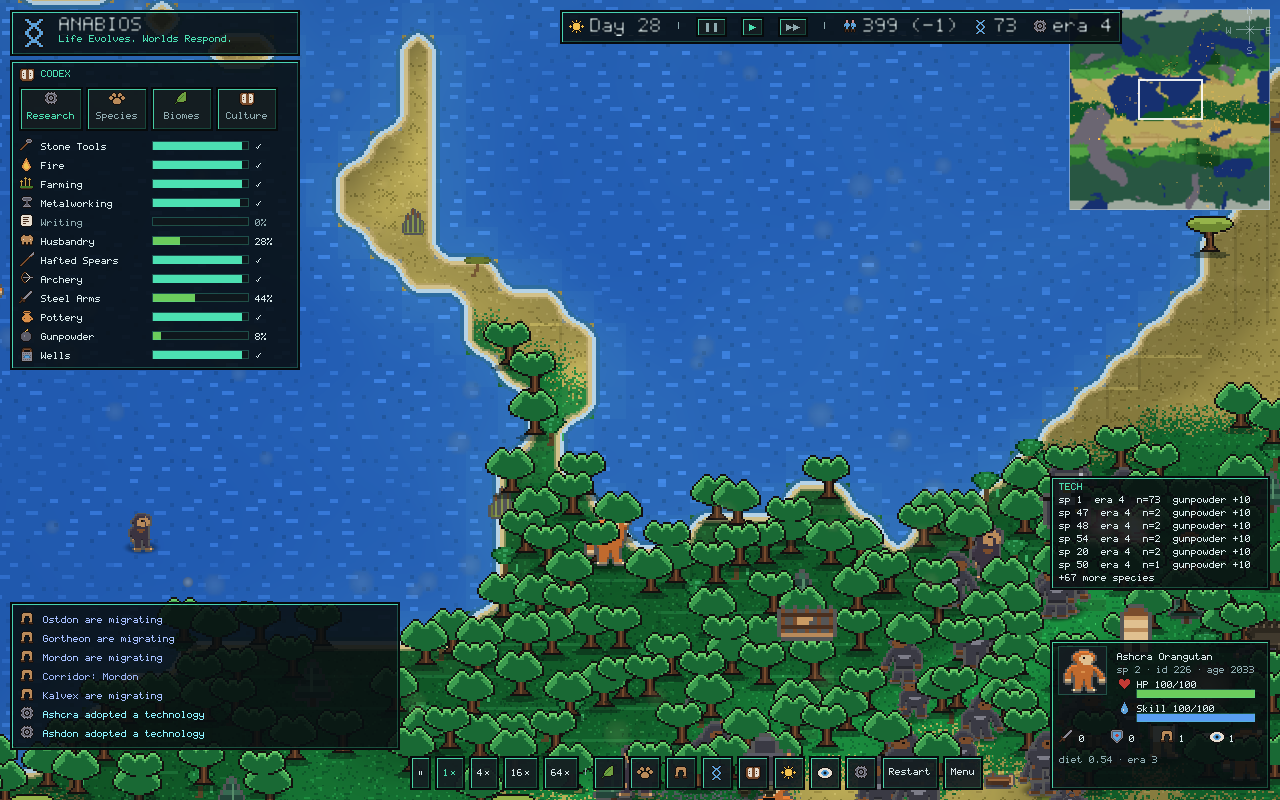
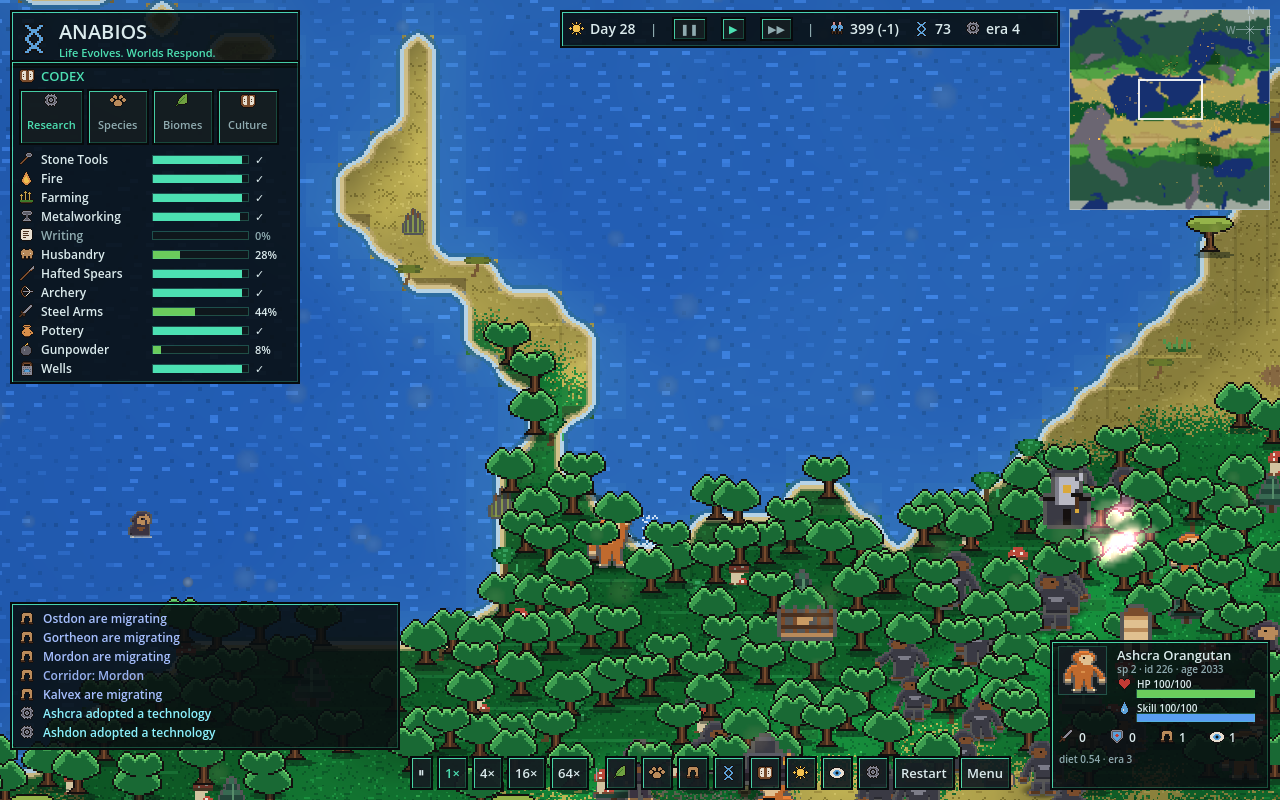
viewer: figures on water wade; tech and adaptation tables hidden until [P]
A figure standing on a water cell is drawn cut off at the waterline with
a pale wet rim and no contact shadow, instead of walking on the lake.
The wading flag rides the upper half of the instance-colour alpha (the
bucket keeps the lower half), decoded in the field shader; the lookup
runs from 1x in. The per-species tech and adaptation tables are debugging
readouts the boards do not carry: like the species table they now start
hidden and [P] shows all three.

Claude-Session: https://claude.ai/code/session_019kbTtZKC2VJBPY6SALU64h

diff --git a/gallery/README.md b/gallery/README.md
@@ -54,7 +54,7 @@ pins an agent in the unit card.
 | scale-riverlands-t291-clutter-4x.png | `riverlands` t291 4× at (2500, 1200) | Flowers, tufts, mushrooms and stumps at 4×. |
 | scale-riverlands-t291-lake-4x.png | `riverlands` t291 4× at (2427, 1357) | A desert lake: one flat blue, sparse strokes, foam and beach from the coast autotile. |
 | scale-inventions-t2620-coast-2x.png | `inventions` t2620 2× (`ANABIOS_CODEX_TAB=1`) | Hominin bands along a coast. |
-| scale-inventions-t2620-hominins-4x.png | `inventions` t2620 4× (`ANABIOS_INSPECT=1`, `ANABIOS_CODEX_TAB=0`) | Hand-authored hominins in the field, the research list with an icon per invention, the unit card. |
+| scale-inventions-t2620-hominins-4x.png | `inventions` t2620 4× (`ANABIOS_INSPECT=1`, `ANABIOS_CODEX_TAB=0`) | Hand-authored hominins in the field (one wading offshore, cut at the waterline), the research list with an icon per invention, the unit card; the species, adaptation and tech tables stay hidden until `[P]`. |
 | scale-inventions-t2620-unit-card-1x.png | `inventions` t2620 1× (`ANABIOS_INSPECT=1`) | The same at 1×. |
 | scale-huge-steppe-t191-2x.png | `huge-steppe` t191 2× | The 8192-unit Huge tier streaming its ground chunks. |
 | scale-minimal-t111-shoreline-8x.png | `minimal` t111 8× | Shoreline autotile at 8×. |

diff --git a/README.md b/README.md
@@ -142,7 +142,7 @@ cargo build --release --bin anabios-headless
    - Left-click an agent (within 4 world units) to pin it in the unit card (portrait, HP, stamina, module pips)
    - Scrolling list at bottom-right shows codex events as they fire
     - **R**: replay the latest codex event (rewind to a snapshot, fast-forward, pause at the moment; R/Esc resumes live) · **U**: run at max speed until the next event fires · **V**: event camera — auto-cut tour of recent event locations
-   - **F**: frame the whole world · **F3**: frame-time readout · **B**: toggle the pixel-art ground (tiles + props) · **N**: toggle chunk streaming (A/B against the whole-world sprite) · **P**: species table · **H**: overlay legend · **T** / **Y**: evolution and co-evolution panels
+   - **F**: frame the whole world · **F3**: frame-time readout · **B**: toggle the pixel-art ground (tiles + props) · **N**: toggle chunk streaming (A/B against the whole-world sprite) · **P**: species, adaptation and tech tables · **H**: overlay legend · **T** / **Y**: evolution and co-evolution panels
 
 ## Recording a showcase video
 
